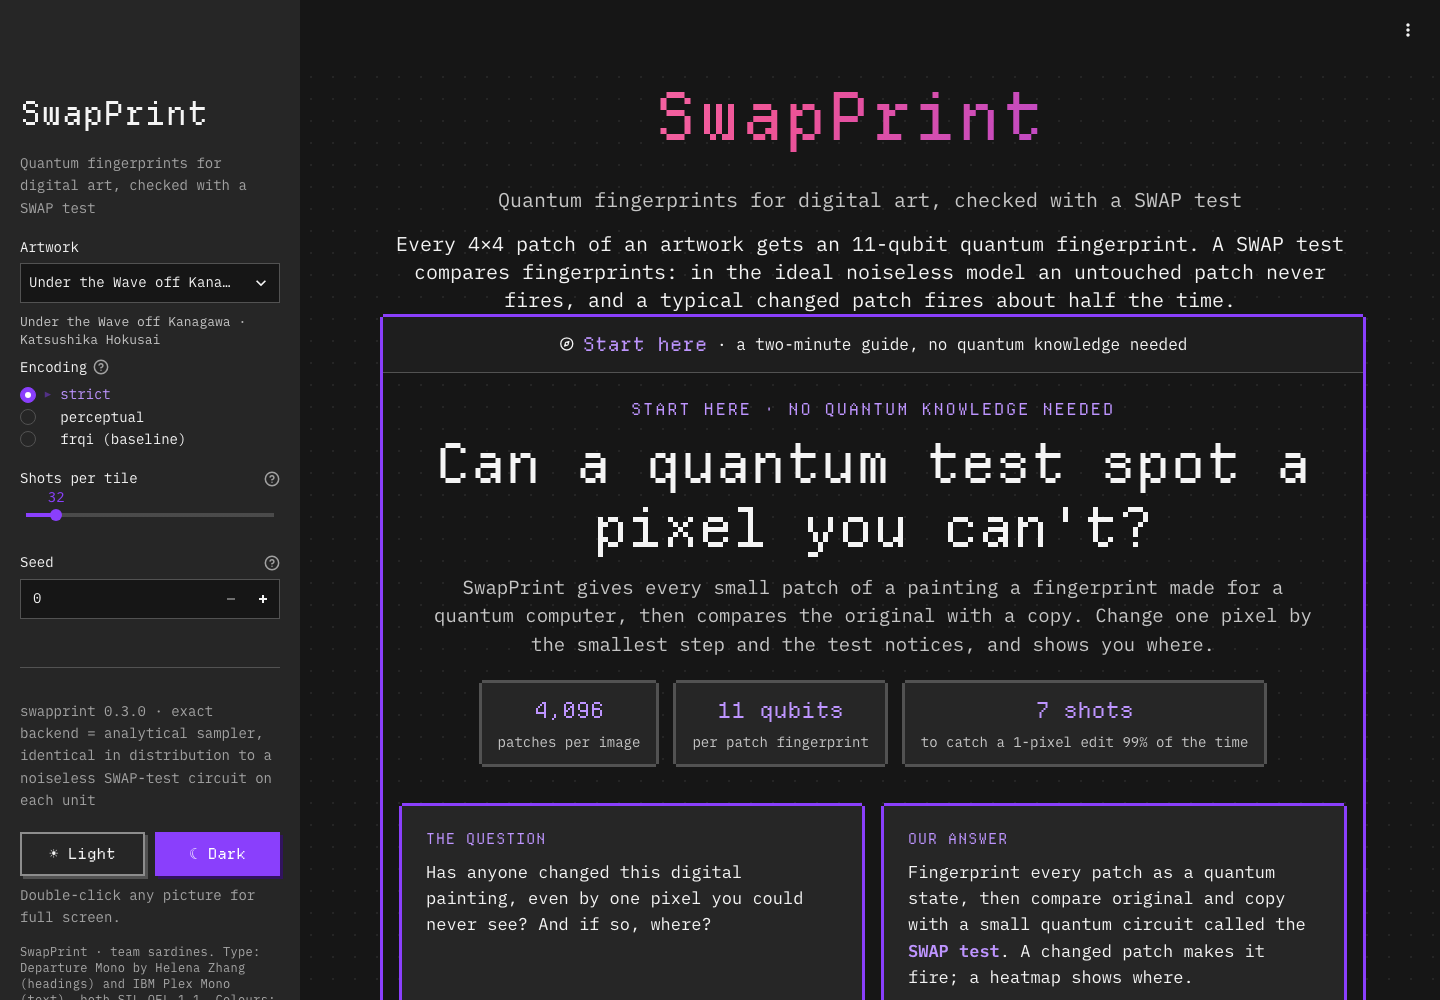
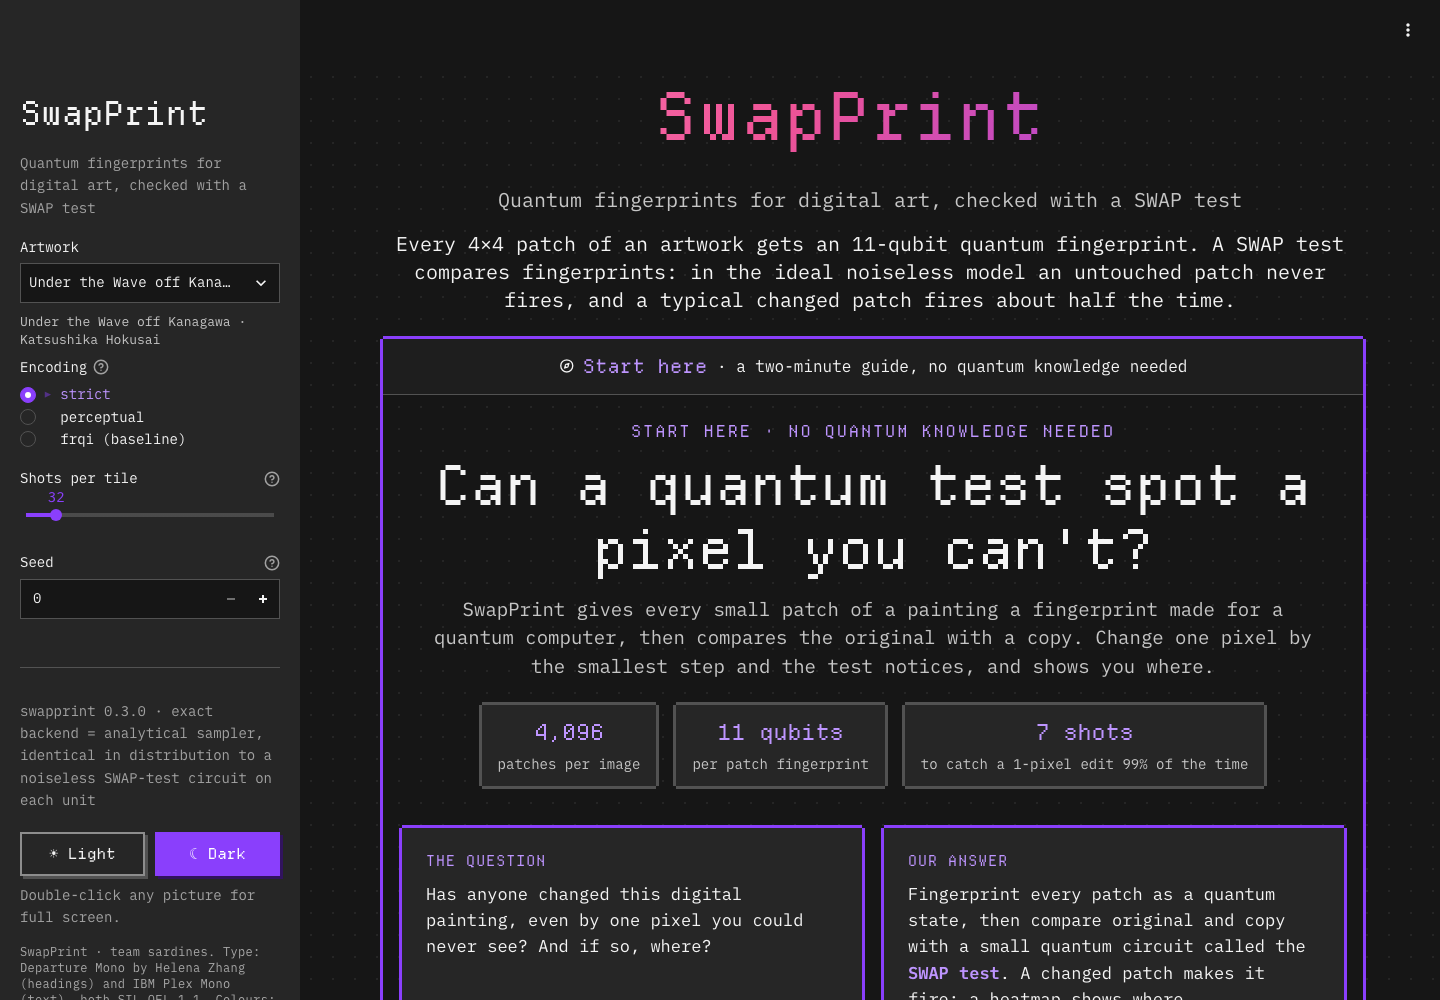
app: equal space above and below the Start here block (Ansh's request)

diff --git a/app/pixel.css b/app/pixel.css
@@ -250,3 +250,5 @@ label[data-testid="stRadioOption"][data-selected="true"] [data-testid="stMarkdow
 /* clickable pictures (streamlit-image-coordinates) get a fixed-height frame from their full-size image, which left a
    tall empty gap under them in narrow columns; every one of ours is square, so the frame follows its width */
 iframe[title="streamlit_image_coordinates.streamlit_image_coordinates"] { aspect-ratio: 1 / 1; height: auto !important; }
+/* Start here block: the same space above (after the intro) and below (before the tabs) */
+[data-testid="stExpander"]:has(.sp-hero) details { margin: 25px var(--px) 9px var(--px) !important; }
